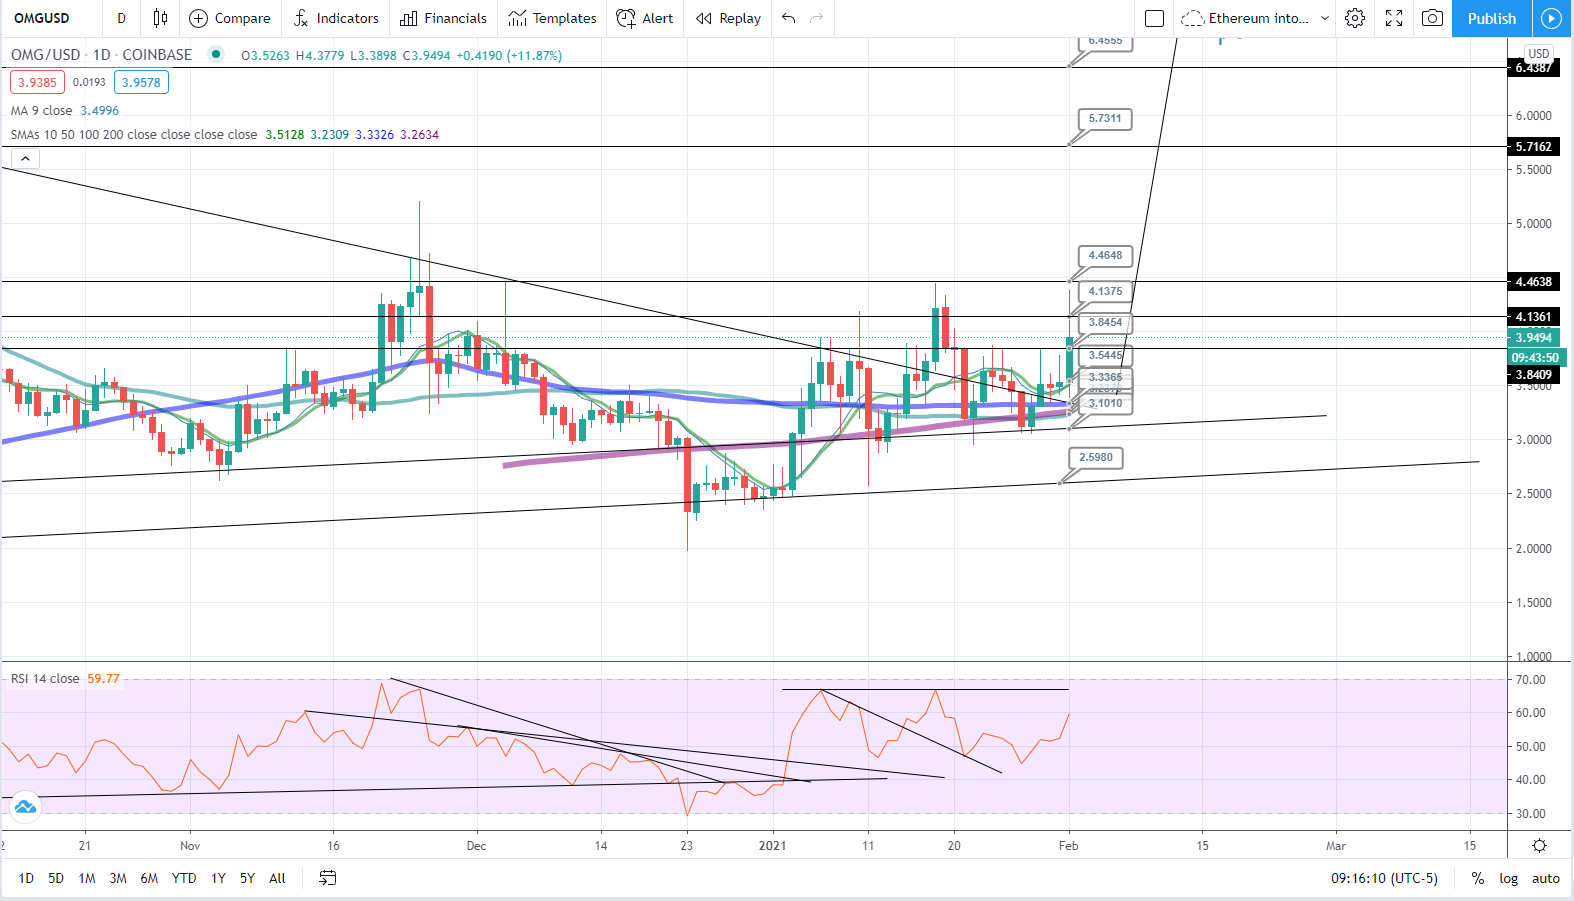
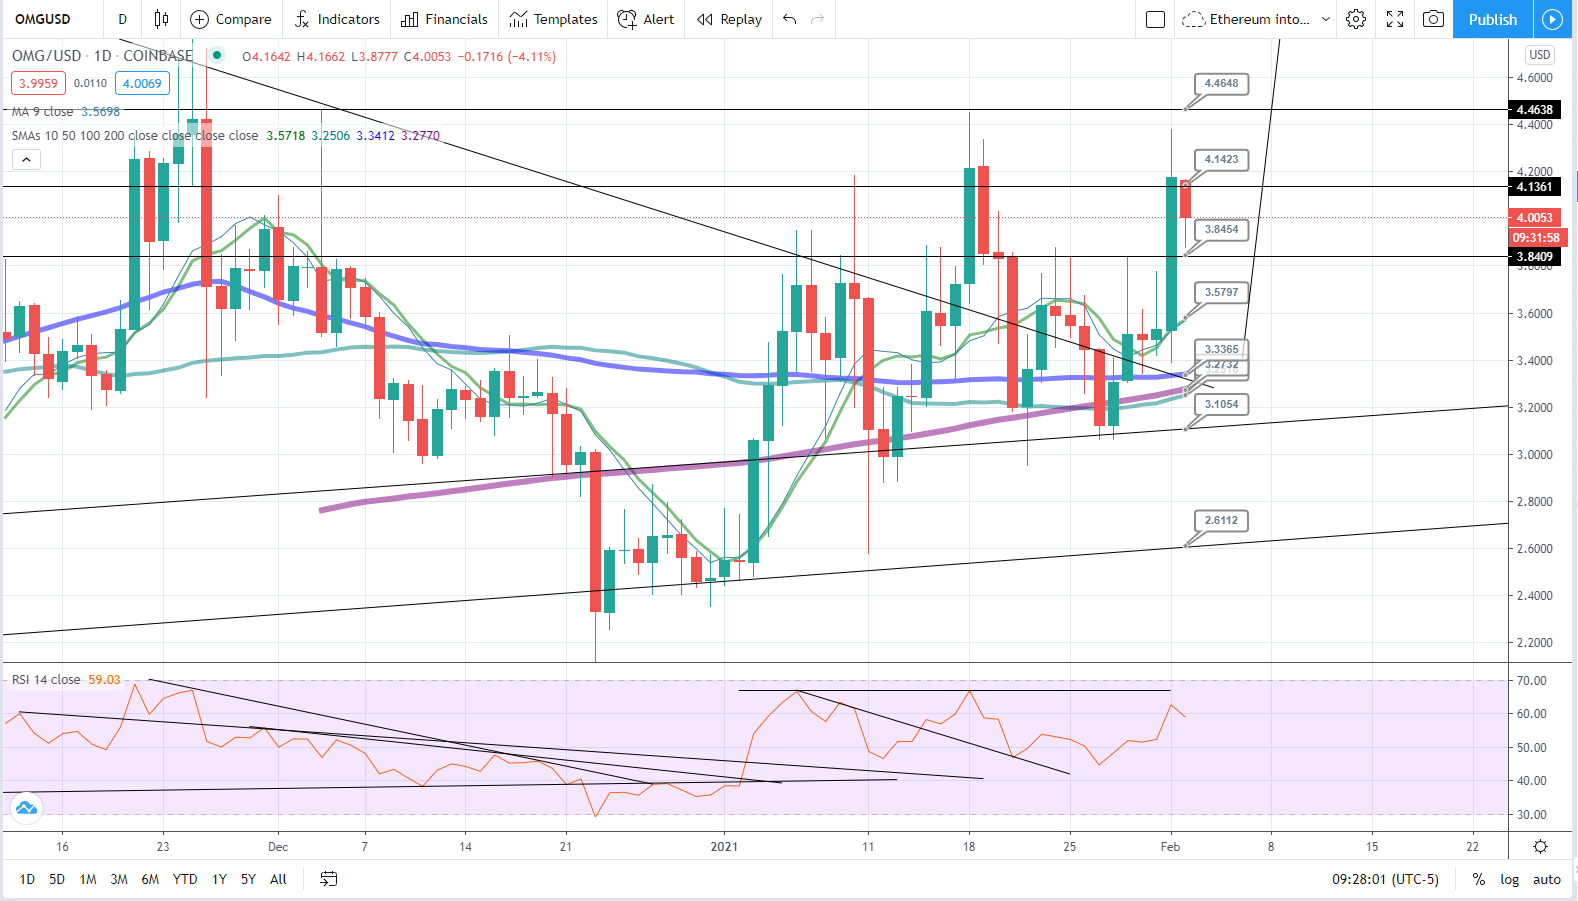
SEO stuff
-Changed header to give each page unique title. before one title was all in one include
-added sitemap.txt and robots.txt files to submit to google
-added rcm builders to development.php page

diff --git a/blog-crypto-analysis.php b/blog-crypto-analysis.php
@@ -6,7 +6,7 @@
      <!--header scripts -->
      <head>
      <?php include ('includes/header-scripts.php'); ?>
-     <title>Royal Technology | Louis A. Rivera Jr. | Technology Consultant</title>
+     <title>Royal Technology | Louis A. Rivera Jr. | Crypto & Stock Analysis</title>
      </head>
 
 
@@ -51,7 +51,7 @@
   <div class="row">
     <div class="col">
       <h5>Coins: Bitcoin, Ethereum, Litecoin, Ripple, OmiseGo<br/> Stocks: Amazon, Diageo</h5>
-      <p>Last Update: February 1, 2021. 9:30 AM EST</p>
+      <p>Last Update: February 2, 2021. 9:46 AM EST</p>
       <p><b><u>Legal disclaimer:</u></b> I am not a financial advisor. The advice here given is not a financial advice. You trade at your own risk and nobody can guarantee you results.
 
 
@@ -66,14 +66,13 @@
   <h5>BTC/USD</h5>
       <a href="../img/crypto-updates/btc-usd.PNG" target="_blank"/><img src="../img/crypto-updates/btc-usd.PNG" alt="Bitcoin Chart" class="img-thumbnail d-xs-block img-fluid" style="margin: 10px 0px 10px 0px;"></a>
 
-      <p>We experienced a crazy weekend in regards to the bitcoin movement. We broke out of the channel and took off like a rocket toward the newly created resistance at 38,100. (This seemed to coincide with the elon musk tweet). Regardless of whatever you believe, the wick rejected and we came back to earth for what seemed like more consolidation. However, more sideways action isn’t a bad thing in this situation. We are being propped up by the sma10 and consolidating for what looks like a break of the 34k level. Getting a daily close above here would put our next target back into the 38k region. I’m leaning bullish on a break upward.
-</p>
+      <p>This is the daily chart of BTC/USD. The SMA10 held surprisingly well and we broke upward overnight. We pushed past the resistance at 34k. That is the level we want to hold going forward. Should we do so, another test of 38k is incoming. Once support settles, I expect it to come in one quick move. Ultimately, if we can hold supports we are looking to retest ATH in the 40-42k range.</p>
 <p>
         Sentiment: currently holding 76% position. I offloaded 24% at 39k. Next target is 50k. Considering a 9% holdings offload at 50k to make it a clean 33%
 </p>
 
       <p>
-      How I would trade: HODL </p>
+      How I would trade: entries close to 34k followed by a tight stop below 31200. The SMA 50 has proven its value and if we fall below that i would change sentiment to bearish. </p>
 
     </div>
   </div>
@@ -86,13 +85,14 @@
 
       <a href="../img/crypto-updates/eth-usd.PNG" target="_blank"/><img src="../img/crypto-updates/eth-usd.PNG" alt="Ethereum Chart" class="img-thumbnail d-xs-block img-fluid" style="margin: 10px 0px 10px 0px;"></a>
 
-      <p>Here is today’s ethereum chart. One thing I wanted to highlight about this chart is the RSI. While ethereum seems to consolidate here, we are noticing solid attempts to push up while the RSI continues to consolidate in what looks like a descending trend line, which is capping the volatility of the coin. It’s time to put this coin on watch. The RSI is back in the neutral (ish) area and an RSI breakout is suggesting a big move on the coin (that could be up or down but I am leaning bullish on this coin as well)</p>
+      <p>Here is today’s ethereum chart. Ethereum is so close to price discovery mode it’s not even funny. The RSI experienced a breakout upward and looks good. The only thing holding us back is the sma 200 on the ETH/BTC chart. We get closer to running every day. Stay patient on this trade.
+</p>
 
-      <p>The biggest takeaway from this coin is that we can observe multiple rejections at the 1400 resistance. However, each resistance is eating the sellers as each rejection is getting weaker. Our goal is to get above the sma10. Another attack on 1400 might do it, folks.</p>
+      <p>The biggest takeaway from this coin is that we can observe multiple rejections at the 1400 resistance. However, each resistance is eating the sellers as each rejection is getting weaker. Our goal is to stay above the sma10. Another attack on 1400 might do it, folks.</p>
 
       <p>Sentiment: bullish </p>
 
-      <p>How I would trade: added another coin here at the 1280ish level
+      <p>How I would trade: Buy the breakout on the sma 200 and ride the wave. See eth/btc.
 
 
 </p>
@@ -108,12 +108,12 @@
       <a href="../img/crypto-updates/ltc-usd.PNG" target="_blank"/><img src="../img/crypto-updates/ltc-usd.PNG" alt="Litecoin Chart" class="img-thumbnail d-xs-block img-fluid" style="margin: 10px 0px 10px 0px;"></a>
 
       <p>
-      Litecoin is looking the most bearish out of the big 3 coins. It is notably below the sma 10 as well as the sma 50. The litecoin ratio in comparison to btc is still super suppressed. If you think crypto is still bullish in the mid term, this would bring the best value buy.
-    </p>
+        Here is the daily chart on litecoin. Litecoin still has yet to invalidate an elliott wave 5 count. It also looks to be breaking above the descending channel. As expected we got a bounce in litecoin with it sitting at critical support on the ltc/btc chart. This little guy is still my favorite out of the 3. Although ethereum is closest to actually launching the rocket pad, this coin value relative to bitcoin hasn’t been this low since the 2017 crash. We need to give it some more time for some fireworks, folks. See ltc/btc
+</p>
 
       <p>Sentiment: Swing Long, currently holding</p>
 
-      <p>How i would trade: aadded to my position and just picked up more here at the 127 level per litecoin
+      <p>How i would trade: HODL
 
 
 
@@ -130,13 +130,13 @@
       <a href="../img/crypto-updates/omg-usd.PNG" target="_blank"/><img src="../img/crypto-updates/omg-usd.PNG" alt="Omise Go Chart" class="img-thumbnail d-xs-block img-fluid" style="margin: 10px 0px 10px 0px;"></a>
 
       <p>
-        OMG had a quick run followed by another big wick. Still in the weeds but bullish overall. If we can find our way above 4.46 we are going to rip higher.
+        Omg has been on an absolute tear lately ripping higher. RSI resistance seems to be holding back more gains. The 3.84 level seems to be holding (For now). I don’t have much confidence at that support with the volatility as this coin. I’m still bullish on this coin. My play would be to fish at the sma 10 (3.57 for entry)
 </p>
 
       <p>Sentiment: neutral
 </p>
 
-      <p>How i would trade:  I sold my position around ~3.50 and rotated my 20% profits to litecoin and ethereum
+      <p>How i would trade: Look for entry around 3.57
 
 
 </p>
@@ -152,10 +152,10 @@
       <a href="../img/crypto-updates/xrp-usd.PNG" target="_blank"/><img src="../img/crypto-updates/xrp-usd.PNG" alt="Ripple Chart" class="img-thumbnail d-xs-block img-fluid" style="margin: 10px 0px 10px 0px;"></a>
 
       <p>
-        Ripple was the most interesting coin of the weekend absolutely ripping all the way to the .70 cent level prior to coming back down. Clear RSI breakout and what looks like a backtest as well. Dare I say, leaning bullish?
+        Although xrp has been looking crazy lately, I don’t think anything out of the ordinary is happening. I’m looking at this coin as a mega breakout followed by a backtest of the moving averages which had it suppressed for so long. Not sure how the lawsuit noise is playing into this, but technically speaking, I'm hopping over to the bullish side of the force.
 </p>
 
-      <p>Sentiment: Bullish?
+      <p>Sentiment: Bullish
 </p>
 
       <p>How to trade: Ripple lawsuit is making this trade complicated. <b><u>Coinbase is no longer allowing trades on XRP.
@@ -173,7 +173,7 @@
       <a href="../img/crypto-updates/eth-btc.PNG" target="_blank"/><img src="../img/crypto-updates/eth-btc.PNG" alt="Ethereum / Bitcoin Chart" class="img-thumbnail d-xs-block img-fluid" style="margin: 10px 0px 10px 0px;"></a>
 
       <p>
-        The sma 200 is an absolute beast and the only reason ethereum isn’t running to the moon. A big wick means we are very well supported at the .037 level. I like ethereum in the middle term. However, we need to get back above the sma10 and the resistance line to gain mega bullish sentiment. Right now as long as we hold .038 and .037 levels, I’m liking ether. I’m also looking for opportunities to add.
+        The sma 200 is an absolute beast and the only reason ethereum isn’t running to the moon. (0.043) A big wick means we are very well supported at the .037 and .038 levels. I like ethereum in the middle term. We are fighting to get above the sma10. That is the first obstacle. If we can do so, we attack the sma 200 again. We also may be showing a breakout of the downtrend line since we first touched that crucial moving average. More to come
 </p>
 
 
@@ -197,7 +197,7 @@
       <a href="../img/crypto-updates/ltc-btc.PNG" target="_blank"/><img src="../img/crypto-updates/ltc-btc.PNG" alt="Litecoin / Bitcoin Chart" class="img-thumbnail d-xs-block img-fluid" style="margin: 10px 0px 10px 0px;"></a>
 
       <p>
-        The litecoin bitcoin chart looks like absolute shit. However as stated before i’m buying the doom as I don’t believe we can go much lower from here. The only thing that this chart has going for it is a potential double bottom on the ratio.
+        Here is the litecoin/bitcoin ratio chart. Litecoin got a much needed bounce from the support ratio price as well as the RSI. We are currently even above the sma10. Make no mistake about this. We are absolutely bearish until we can get above the moving averages. However, I like to buy the doom. Remember, the last time litecoin was this suppressed against bitcoin was after the 2017 crash. Technically speaking, there is more room below for another hit ~20%. However I decided to buy all the way down should that be the case. I think we are locking in the bottom before a moon landing.
 </p>
 
 
@@ -221,12 +221,12 @@
 
       <p>
 
-      Amazon looks to be retracing but i think personally it’s building a nice support base for takeoff. I'm bullish on this coin as long as the bottom of the pennant and sma 10 hold nicely.</p>
+    Amazon found a nice support about retesting the sma supports and took off like a rocket . We are now testing a resistance at 3400. If we break we run, baby! I like amazon and think after 6 months of consolidation were getting ready for a Rip & Run rally</p>
 
 
 <p>Sentiment: near term bullish, mid term mega bullish</p>
 
-<p>How to trade: good entry here
+<p>How to trade: never buy at resistance. Only supports
 </p>
 
     </div>
@@ -242,7 +242,7 @@
 
       <p>
 
-  On the weekly deo tested the sma 100 and bounced rather nicely. The RSI looks good and we are still trading in the channel. I personally would still like to see a break with a clear direction before I initiate any trades.</p>
+On the daily diageo found support and is heading up to test the top end of the channel. I am still looking to get above the 174 for entry on this coin in case the channel breaks down.</p>
 
       <p>Sentiment: neutral
 
@@ -250,7 +250,7 @@
 
 
 
-<p>How to trade: <b><u>I would be on the sidelines here until we can break All time high</u></b> or we can fill the gap below. Should we lose 159 price point, we can expect a slide down to 153, 151, 145. If we hit 142-145 range that would make sense to fill the gap and retreat to major support zones.
+<p>How to trade: <b><u>I would be on the sidelines here until we can break All time high</u></b> or we can fill the gap below.
 </p>
 
 <p>I will pick up a half position if we can break all time high or retreat back to 145. </p>

diff --git a/development.php b/development.php
@@ -4,7 +4,7 @@
      <!--header scripts -->
      <head>
      <?php include ('includes/header-scripts.php'); ?>
-     <title>Royal Technology | Louis A. Rivera Jr. | Technology Consultant</title>
+     <title>Royal Technology | Louis A. Rivera Jr. | Web Development </title>
      </head>
 
 
@@ -194,6 +194,34 @@
                 </div>
               </div>
               </div>
+
+              <div class="container-fluid content-padding">
+                <div class="container">
+                  <hr/>
+                  <div class="row">
+
+                    <div class="col-xs-12 col-md-8">
+
+
+
+                      <h4>RCM Builders, Inc.</h4>
+                      <p>RCM Builers, Inc. was a client website that was just updated in 2021. RCM Builders is a premier building partner for all things construction. RCM Builders is located and operated out of southern New Jersey. This Website is a customized WordPress instance.</p>
+
+                      <p>URL: <a href="http://www.rcmbuilders.com" target="_blank">http://rcmbuilders.com</a></p>
+
+
+                  </div>
+                  <div class="col">
+                    <a href="http://www.rcmbuilders.com" target="_blank"><img src="../img/rcm-builders.PNG" alt="RCM Builders" class="img-thumbnail d-none d-md-block img-fluid"></a>
+
+                  </div>
+
+
+                  </div>
+                </div>
+                </div>
+
+            
 
 
 

diff --git a/welcome.php b/welcome.php
@@ -16,7 +16,7 @@ if(!isset($_SESSION["loggedin"]) || $_SESSION["loggedin"] !== true){
      <!--header scripts -->
      <head>
      <?php include ('includes/header-scripts.php'); ?>
-     <title>Royal Technology | Louis A. Rivera Jr. | Technology Consultant</title>
+     <title>Royal Technology | Louis A. Rivera Jr. | Employee Home</title>
      </head>
 
 

diff --git a/ticket.php b/ticket.php
@@ -16,7 +16,7 @@ if(!isset($_SESSION["loggedin"]) || $_SESSION["loggedin"] !== true){
 <head>
      <!--header scripts -->
      <?php include ('includes/header-scripts.php'); ?>
-     <title>Royal Technology | Louis A. Rivera Jr. | Technology Consultant</title>
+     <title>Royal Technology | Louis A. Rivera Jr. | Submit a Ticket</title>
      </head>
 
 

diff --git a/analytics.php b/analytics.php
@@ -16,7 +16,7 @@ if(!isset($_SESSION["loggedin"]) || $_SESSION["loggedin"] !== true){
      <!--header scripts -->
      <head>
      <?php include ('includes/header-scripts.php'); ?>
-     <title>Royal Technology | Louis A. Rivera Jr. | Technology Consultant</title>
+     <title>Royal Technology | Louis A. Rivera Jr. | analytics</title>
      </head>
 
 

diff --git a/calendar.php b/calendar.php
@@ -16,7 +16,7 @@ if(!isset($_SESSION["loggedin"]) || $_SESSION["loggedin"] !== true){
      <!--header scripts -->
      <head>
      <?php include ('includes/header-scripts.php'); ?>
-     <title>Royal Technology | Louis A. Rivera Jr. | Technology Consultant</title>
+     <title>Royal Technology | Louis A. Rivera Jr. | Calendar</title>
      </head>
 
 

diff --git a/employee-register.php b/employee-register.php
@@ -99,7 +99,7 @@ if($_SERVER["REQUEST_METHOD"] == "POST"){
      <!--header scripts -->
      <head>
      <?php include ('includes/header-scripts.php'); ?>
-     <title>Royal Technology | Louis A. Rivera Jr. | Technology Consultant</title>
+     <title>Royal Technology | Louis A. Rivera Jr. | Employee Registration</title>
      </head>
 
 

diff --git a/employee-login.php b/employee-login.php
@@ -94,7 +94,7 @@ if($_SERVER["REQUEST_METHOD"] == "POST"){
      <!--header scripts -->
      <head>
      <?php include ('includes/header-scripts.php'); ?>
-     <title>Royal Technology | Louis A. Rivera Jr. | Technology Consultant</title>
+     <title>Royal Technology | Louis A. Rivera Jr. | Employee Login</title>
      </head>
 
 

diff --git a/password-reset.php b/password-reset.php
@@ -76,7 +76,7 @@ if($_SERVER["REQUEST_METHOD"] == "POST"){
      <!--header scripts -->
      <head>
      <?php include ('includes/header-scripts.php'); ?>
-     <title>Royal Technology | Louis A. Rivera Jr. | Technology Consultant</title>
+     <title>Royal Technology | Louis A. Rivera Jr. | Password Reset</title>
      </head>
 
 

diff --git a/technology.php b/technology.php
@@ -4,7 +4,7 @@
      <!--header scripts -->
      <head>
      <?php include ('includes/header-scripts.php'); ?>
-     <title>Royal Technology | Louis A. Rivera Jr. | Technology Consultant</title>
+     <title>Royal Technology | Louis A. Rivera Jr. | Technology Software & Languages</title>
      </head>
 
 

diff --git a/blog-azure-fundamentals.php b/blog-azure-fundamentals.php
@@ -6,7 +6,7 @@
      <!--header scripts -->
      <head>
      <?php include ('includes/header-scripts.php'); ?>
-     <title>Royal Technology | Louis A. Rivera Jr. | Technology Consultant</title>
+     <title>Royal Technology | Louis A. Rivera Jr. | Azure Fundamentals Course</title>
      </head>
 
 

diff --git a/colleagues.php b/colleagues.php
@@ -4,7 +4,7 @@
      <!--header scripts -->
      <head>
      <?php include ('includes/header-scripts.php'); ?>
-     <title>Royal Technology | Louis A. Rivera Jr. | Technology Consultant</title>
+     <title>Royal Technology | Louis A. Rivera Jr. | Coleagues & Testimonials</title>
      </head>
 
 
